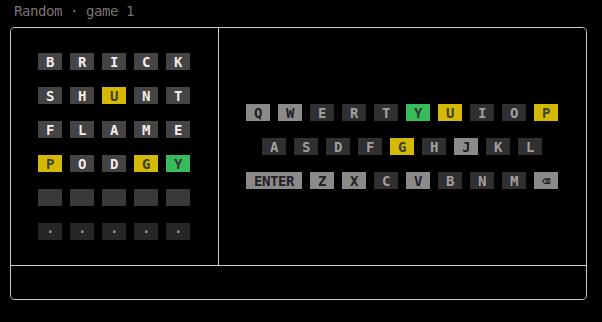
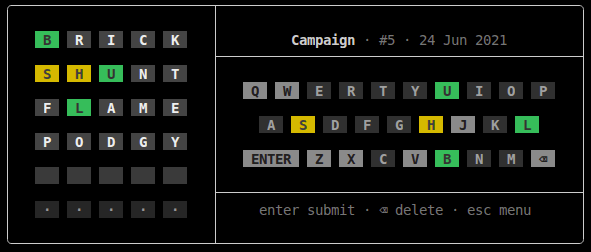
Move title and tips inside the keyboard pane, allow typing during reveal
- title and key tips get their own sections inside the keyboard pane;
  messages and results show there, the bar below the box is gone
- keys typed while a guess is revealing fill the next row, and an
  early enter is submitted once the reveal ends
- fast typing arriving in one read is split into keys instead of dropped
- refresh gameplay screenshot

diff --git a/wordle_cli/game.py b/wordle_cli/game.py
@@ -3,13 +3,14 @@ import argparse
 import os
 import random
 import re
+import select
 import shutil
 import signal
 import sys
 import termios
 import time
 import tty
-from collections import Counter
+from collections import Counter, deque
 from datetime import date, datetime, timedelta
 
 from .store import MAX_TRIES, Store
@@ -82,12 +83,22 @@ def spread(left: str, right: str, width: int = INNER_W - 2) -> str:
     return left + " " * max(1, width - visible_len(left) - visible_len(right)) + right
 
 
+SEP = object()  # a column line drawn as a horizontal rule joined to the borders
+
+
 def box(columns: list, widths: list, footer: str = None) -> list:
     height = max(len(col) for col in columns)
     columns = [col + [""] * (height - len(col)) for col in columns]
     out = ["╭" + "┬".join("─" * w for w in widths) + "╮"]
     for row in zip(*columns):
-        out.append("│" + "│".join(pad(t, w, "center") for t, w in zip(row, widths)) + "│")
+        rules = [t is SEP for t in row]
+        line = "├" if rules[0] else "│"
+        for i, (t, w) in enumerate(zip(row, widths)):
+            line += "─" * w if rules[i] else pad(t, w, "center")
+            if i + 1 < len(row):
+                line += {(True, True): "┼", (True, False): "┤", (False, True): "├"}.get(
+                    (rules[i], rules[i + 1]), "│")
+        out.append(line + ("┤" if rules[-1] else "│"))
     if footer is None:
         out.append("╰" + "┴".join("─" * w for w in widths) + "╯")
     else:
@@ -217,6 +228,7 @@ class Terminal:
         sys.stdout.write("\033[?1049h\033[?25l")  # alternate screen, hide cursor
         sys.stdout.flush()
         self.last = []
+        self.pending = deque()
         signal.signal(signal.SIGWINCH, lambda *_: self.paint())
         return self
 
@@ -226,17 +238,37 @@ class Terminal:
         sys.stdout.write("\033[?25h\033[?1049l")
         sys.stdout.flush()
 
-    def key(self):
-        data = os.read(self.fd, 32).decode(errors="ignore")
-        keys = {"\r": "enter", "\n": "enter", "\x7f": "backspace", "\x08": "backspace",
-                "\x1b": "esc", "\x04": "quit",
-                "\x1b[A": "up", "\x1bOA": "up", "\x1b[B": "down", "\x1bOB": "down",
-                "\x1b[C": "right", "\x1bOC": "right", "\x1b[D": "left", "\x1bOD": "left"}
-        if data in keys:
-            return keys[data]
-        if len(data) == 1 and data.isprintable():
-            return data
-        return None
+    KEYS = {"\r": "enter", "\n": "enter", "\x7f": "backspace", "\x08": "backspace",
+            "\x1b": "esc", "\x04": "quit", "A": "up", "B": "down", "C": "right", "D": "left"}
+
+    def key(self, timeout: float = None):
+        """Next key press, or None if `timeout` seconds pass without one."""
+        if not self.pending:
+            if timeout is not None and not select.select([self.fd], [], [], max(0, timeout))[0]:
+                return None
+            self.pending.extend(self.parse(os.read(self.fd, 256).decode(errors="ignore")))
+        return self.pending.popleft() if self.pending else None
+
+    @classmethod
+    def parse(cls, data: str) -> list:
+        """Split a burst of input (fast typing arrives together) into keys."""
+        keys, i = [], 0
+        while i < len(data):
+            ch = data[i]
+            i += 1
+            if ch == "\x1b" and i < len(data) and data[i] in "[O":
+                end = i + 1
+                while end < len(data) and not "@" <= data[end] <= "~":
+                    end += 1
+                seq = data[i + 1:end + 1]
+                i = end + 1
+                if seq in ("A", "B", "C", "D"):  # arrows; other escape sequences are ignored
+                    keys.append(cls.KEYS[seq])
+            elif ch in cls.KEYS and len(ch) == 1 and not ch.isalpha():
+                keys.append(cls.KEYS[ch])
+            elif ch.isprintable():
+                keys.append(ch)
+        return keys
 
     def paint(self, lines: list = None):
         """Draw lines centred on screen, overwriting the previous frame."""
@@ -281,8 +313,8 @@ class App:
         self.valid = None
         self.menu_index = 0
 
-    def key(self):
-        k = self.term.key()
+    def key(self, timeout: float = None):
+        k = self.term.key(timeout)
         if k == "quit":
             raise Quit
         return k
@@ -405,8 +437,7 @@ class App:
             if day > today:
                 self.notice(f"{GREEN}{BOLD}All caught up!{RESET} you have played every Wordle up to today")
                 return None
-            total = puzzle_number(today) + 1
-            title = f"Campaign · Wordle #{number} · {day:%d %b %Y} · {number + 1}/{total}{tag}"
+            title = f"Campaign · #{number} · {day:%d %b %Y}{tag}"
 
         key = f"{mode}:{day if mode == 'daily' else number}"
         saved = self.store.progress(key)
@@ -430,22 +461,53 @@ class App:
             return random.choice(FALLBACK_WORDS)
 
     # playing ------------------------------------------------------------------
-    def draw_game(self, game: Game, footer: str = "", history: list = None):
-        typing = history is None and not game.over
+    def draw_game(self, game: Game, message: str = "", history: list = None, tips: str = None,
+                  typing: bool = None):
+        if typing is None:
+            typing = history is None and not game.over
         board = [""] + render_board(game.history if history is None else history,
                                     game.current if typing else None) + [""]
-        keys = render_keys(game.status)
-        keys = [""] * (1 + (BOARD_H - len(keys)) // 2) + keys
-        header = pad(dim(" " + game.title), BOX_W)
-        self.term.paint([header] + box([board, keys], [LEFT_W, RIGHT_W], footer))
+        name, *details = game.title.split(" · ")
+        title = f"{BOLD}{name}{RESET}" + "".join(dim(f" · {d}") for d in details)
+        # title lines up with the first board row, tips with the last one
+        if tips is None:  # while typing, a message takes the place of the key tips
+            bottom = [message or dim("enter submit · ⌫ delete · esc menu"), ""]
+        else:
+            bottom = [message, tips] if message else [tips, ""]
+        right = ["", title, SEP, ""] + render_keys(game.status) + ["", SEP] + bottom
+        self.term.paint(box([board, right], [LEFT_W, RIGHT_W]))
 
     def reveal(self, game: Game, guess: str):
+        """Flip the tiles one by one; keys typed meanwhile go to the next row."""
         result = score_guess(guess, game.answer)
+        last_row = guess == game.answer or len(game.history) + 1 >= MAX_TRIES
+        later = []
         for shown in range(1, WORD_LEN + 1):
             partial = result[:shown] + ["pending"] * (WORD_LEN - shown)
-            self.draw_game(game, history=game.history + [(guess, partial)])
-            time.sleep(0.15)
+            deadline = time.time() + 0.15
+            while True:
+                self.draw_game(game, history=game.history + [(guess, partial)], typing=not last_row)
+                k = self.key(deadline - time.time())
+                if k is None:
+                    break
+                if last_row:
+                    continue  # nothing to type into; don't let keys skip the result
+                if later or not self.type_key(game, k):
+                    later.append(k)  # enter and anything after it: handled once revealed
         game.apply(guess)
+        self.term.pending.extendleft(reversed(later))
+
+    @staticmethod
+    def type_key(game: Game, k: str) -> bool:
+        """Apply a letter/backspace to the row being typed; False for other keys."""
+        if k == "backspace":
+            game.current = game.current[:-1]
+        elif k and len(k) == 1 and k.isascii() and k.isalpha():
+            if len(game.current) < WORD_LEN:
+                game.current += k.lower()
+        else:
+            return False
+        return True
 
     def submit(self, game: Game) -> str:
         """Returns an error message, or '' if the guess was played."""
@@ -458,8 +520,8 @@ class App:
             error = hard_mode_error(guess, game.history)
             if error:
                 return error
-        self.reveal(game, guess)
         game.current = ""
+        self.reveal(game, guess)
         if game.over:
             self.store.record(game.mode, game.key, game.answer, game.guesses, game.won,
                               day=game.day, number=game.number)
@@ -477,25 +539,22 @@ class App:
             message = ""
             if k == "esc":
                 return "menu"
-            if k == "backspace":
-                game.current = game.current[:-1]
-            elif k == "enter":
+            if k == "enter":
                 message = self.submit(game)
-            elif k and len(k) == 1 and k.isascii() and k.isalpha() and len(game.current) < WORD_LEN:
-                game.current += k.lower()
+            else:
+                self.type_key(game, k)
 
         if game.won:
             result = f"{GREEN}{BOLD}{PRAISE[len(game.history) - 1]}!{RESET} solved in {len(game.history)}/{MAX_TRIES}"
         else:
             result = f"the word was {BOLD}{game.answer.upper()}{RESET}"
         if game.mode == "daily":
-            result += dim(f" · next in {time_to_tomorrow()}")
-            hint = dim("s stats · enter menu")
+            hint = dim(f"next in {time_to_tomorrow()} · s stats · enter menu")
         else:
             hint = dim(f"enter next {'word' if game.mode == 'random' else 'day'} · s stats · esc menu")
 
         while True:
-            self.draw_game(game, spread(result, hint))
+            self.draw_game(game, result, tips=hint)
             k = self.key()
             if k == "s":
                 self.stats_screen(game.mode)
